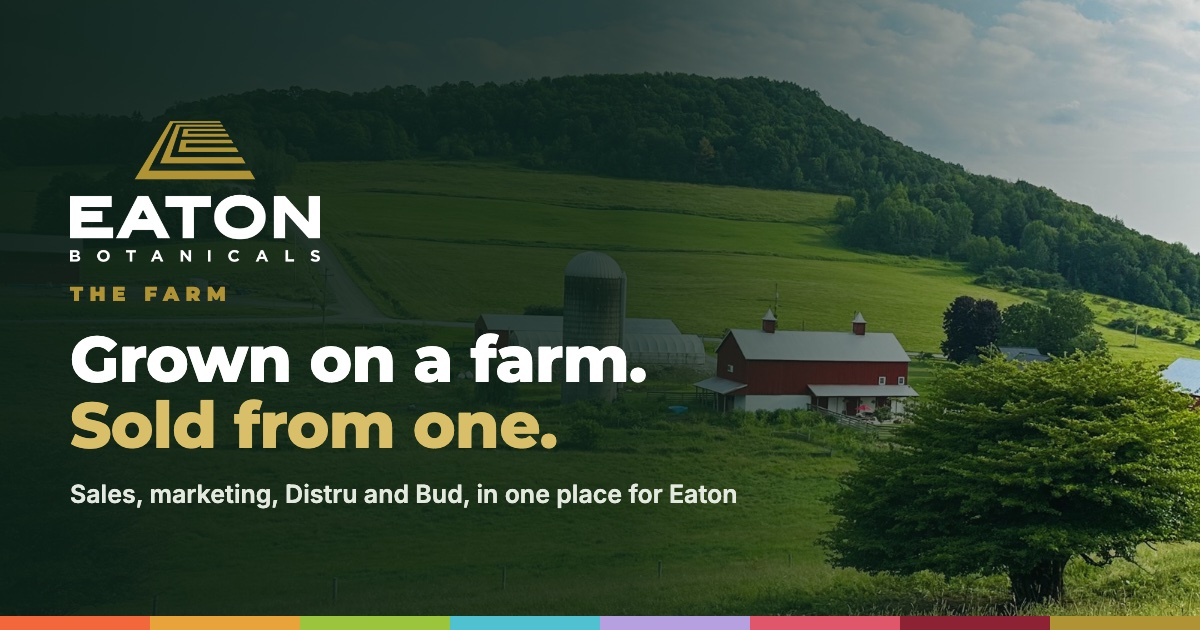
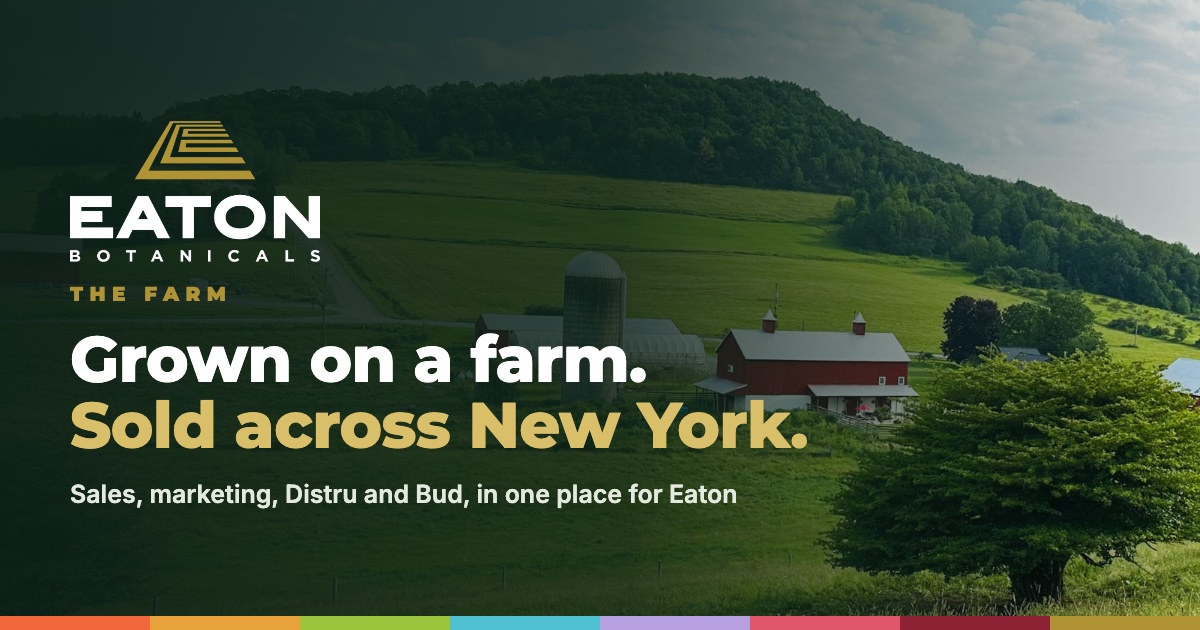
Eaton Botanicals: they don't sell from the farm; new headline "Sold across New York"

Changed region(s): [[0.185, 0.6333, 0.6783, 0.7238]]

diff --git a/eaton/app.js b/eaton/app.js
@@ -97,7 +97,7 @@
   const SCENES = {
     lines: () => `<div class="v-line" id="v-lines"></div>`,
     headline: () => `<div class="v-line">${V.headline}<small>${esc(V.headSub)}</small></div>`,
-    site: () => `<div class="v-stack"><div class="v-title">${esc(V.site.h)}<small>${esc(V.site.p)}</small></div><div class="v-win"><div class="bar"><i></i><i></i><i></i><span>eatonbotanicals.com</span></div><img src="img/shots/site.jpg?v=1794188895" alt=""></div></div>`,
+    site: () => `<div class="v-stack"><div class="v-title">${esc(V.site.h)}<small>${esc(V.site.p)}</small></div><div class="v-win"><div class="bar"><i></i><i></i><i></i><span>eatonbotanicals.com</span></div><img src="img/shots/site.jpg?v=1794189232" alt=""></div></div>`,
     locator: () => `<div class="v-stack"><div class="v-title">${esc(V.locator.h)}<small>${esc(V.locator.p)}</small></div><div class="v-mapwrap">${vmap()}<div class="v-legend"><span><i style="background:#7fc4a0"></i>Carries Eaton</span><span><i style="background:#d9bf6a"></i>Golden Ticket, last 90 days</span></div></div></div>`,
     orders: () => `<div class="v-stack"><div class="v-title">${esc(V.orders.h)}<small>${esc(V.orders.p)}</small></div><div class="v-feed">${AX.orders.lines.slice(0, 5).map((l, i) => `<div class="row" style="animation-delay:${.3 * i}s"><i class="v-tin" style="background:${P(l[0]).c}"></i><span><b>${esc(P(l[0]).n)}</b><small>${esc(AX.orders.stock[l[0]][1])}</small></span><span class="tag">${l[1]} tins</span><span class="score" style="color:#fff">${money(l[1] * l[2])}</span></div>`).join("")}<div class="row" style="animation-delay:1.7s;grid-template-columns:1fr auto;background:rgba(175,147,53,.18);border-color:rgba(175,147,53,.5)"><span><b>Confirmed. Sales order SO-20418 is in Distru.</b><small>Lantern House · Brooklyn · Net 30</small></span><span class="score" style="color:#d9bf6a">${money(AX.orders.lines.reduce((s, l) => s + l[1] * l[2], 0))}</span></div></div></div>`,
     reorder: () => `<div class="v-stack"><div class="v-title">${esc(V.reorder.h)}<small>${esc(V.reorder.p)}</small></div><div class="v-feed">${AX.accounts.filter(a => a.last / a.gap >= .85).sort((a, b) => b.last / b.gap - a.last / a.gap).slice(0, 4).map((a, i) => `<div class="row" style="animation-delay:${.35 * i}s">${svgI("repeat", 26)}<span><b>${esc(a.n)}</b><small>${esc(a.city)} · orders every ${a.gap} days · usually ${money(a.avg)}</small></span><span class="tag">${a.last} days</span><span class="score">${a.last > a.gap ? "Late" : "Due"}</span></div>`).join("")}</div></div>`,
@@ -105,19 +105,19 @@
     marketing: () => `<div class="v-stack"><div class="v-title">${esc(V.marketing.h)}<small>${esc(V.marketing.p)}</small></div><div class="v-feed">${AX.campaigns.map((c, i) => `<div class="row" style="animation-delay:${.35 * i}s">${svgI("megaphone", 26)}<span><b>${esc(c.n)}</b><small>${esc(c.to)} · ${esc(c.ch)}</small></span><span class="tag">${esc(c.st)}</span><span class="score" style="color:${c.ok ? "#7fe0b0" : "#ff8a8a"}">${c.ok ? "✓" : "Fix"}</span></div>`).join("")}</div></div>`,
     bud: () => `<div class="v-stack"><div class="v-title">${esc(V.bud.h)}<small>${esc(V.bud.p)}</small></div><div class="v-slack"><div class="v-slack-top">${svgI("slack", 18)}<b># sales</b><span>Slack · Teams works the same</span></div>
       <div class="v-msg" style="animation-delay:.2s"><span class="av" style="background:#e8a33a">T</span><div><b>Tom</b><p>@Bud who's out of Golden Ticket up north?</p></div></div>
-      <div class="v-msg" style="animation-delay:1.4s"><span class="av bud"><img src="img/mark-gold.png?v=1794188895" alt=""></span><div><b>Bud <em>APP</em></b><p>High Meadow in Saratoga is out, and their Golden Ticket night on Nov 20 isn't confirmed. I drafted a nudge to Jon and added 12 tins to their next order. Approve?</p><div class="v-acts"><span>Approve both</span><span>Edit</span></div></div></div>
+      <div class="v-msg" style="animation-delay:1.4s"><span class="av bud"><img src="img/mark-gold.png?v=1794189232" alt=""></span><div><b>Bud <em>APP</em></b><p>High Meadow in Saratoga is out, and their Golden Ticket night on Nov 20 isn't confirmed. I drafted a nudge to Jon and added 12 tins to their next order. Approve?</p><div class="v-acts"><span>Approve both</span><span>Edit</span></div></div></div>
       <div class="v-msg" style="animation-delay:3.2s"><span class="av" style="background:#e8a33a">T</span><div><b>Tom</b><p>Approve both 👍</p></div></div></div></div>`,
-    ring: () => `<div class="v-stack"><div class="v-title">${esc(V.ring.h)}<small>${esc(V.ring.p)}</small></div><div class="v-flow"><div class="v-list">${V.ring.l.map((t, i) => `<div style="animation-delay:${.12 * i}s">${svgI(t[0])}${esc(t[1])}</div>`).join("")}</div><div class="v-core"><img src="img/mark-gold.png?v=1794188895" alt=""></div><div class="v-list">${V.ring.r.map((t, i) => `<div style="animation-delay:${.5 + .12 * i}s">${svgI(t[0])}${esc(t[1])}</div>`).join("")}</div></div></div>`,
+    ring: () => `<div class="v-stack"><div class="v-title">${esc(V.ring.h)}<small>${esc(V.ring.p)}</small></div><div class="v-flow"><div class="v-list">${V.ring.l.map((t, i) => `<div style="animation-delay:${.12 * i}s">${svgI(t[0])}${esc(t[1])}</div>`).join("")}</div><div class="v-core"><img src="img/mark-gold.png?v=1794189232" alt=""></div><div class="v-list">${V.ring.r.map((t, i) => `<div style="animation-delay:${.5 + .12 * i}s">${svgI(t[0])}${esc(t[1])}</div>`).join("")}</div></div></div>`,
     build: () => `<div class="v-stack"><div class="v-title">${esc(V.build.h)}<small>${esc(V.build.p)}</small></div><div class="v-builds">${V.build.l.map((t, i) => `<div style="animation-delay:${.25 * i}s">${svgI(["users", "leaf", "cal", "flag", "chart", "bolt"][i], 24)}<span>${esc(t)}</span></div>`).join("")}</div></div>`,
-    farm: () => `<div class="v-stack"><div class="v-win" style="width:min(820px,90vw);background:#000"><img src="img/photos/lineup-group.jpg?v=1794188895" alt="The Eaton Botanicals gummy tins with the mushrooms in each one" style="aspect-ratio:3/2;object-position:center"></div><div class="v-line" style="font-size:clamp(34px,4.6vw,66px)">${V.farm}</div></div>`,
-    end: () => `<div class="v-stack v-end"><img src="img/logo-white.png?v=1794188895" alt="Eaton Botanicals"><div class="v-line" style="font-size:clamp(30px,3.6vw,50px)">${V.end}<small>Scroll down for more</small></div></div>`,
+    farm: () => `<div class="v-stack"><div class="v-win" style="width:min(820px,90vw);background:#000"><img src="img/photos/lineup-group.jpg?v=1794189232" alt="The Eaton Botanicals gummy tins with the mushrooms in each one" style="aspect-ratio:3/2;object-position:center"></div><div class="v-line" style="font-size:clamp(34px,4.6vw,66px)">${V.farm}</div></div>`,
+    end: () => `<div class="v-stack v-end"><img src="img/logo-white.png?v=1794189232" alt="Eaton Botanicals"><div class="v-line" style="font-size:clamp(30px,3.6vw,50px)">${V.end}<small>Scroll down for more</small></div></div>`,
   };
   const CH = V.scenes; // [key, seconds, caption]
   let VO = {}, voEl = null, voMuted = false, curDur = 0, showTok = 0, timer = null, idx = 0, t0 = 0, paused = false, elapsed = 0;
   function stopVideo() { clearTimeout(timer); timer = null; cancelAnimationFrame(raf); APP.music && APP.music.stop(); stopVoice(); }
   /* the voiceover: one clip per scene (img/vo/<scene>.mp3), lengths in img/vo/vo.json; the music dips under it */
   const VO_ON = !Q.has("cap") && !Q.has("novo");
-  fetch("img/vo/vo.json?v=1794188895").then(r => r.ok ? r.json() : {}).then(j => { VO = j || {}; }).catch(() => {});
+  fetch("img/vo/vo.json?v=1794189232").then(r => r.ok ? r.json() : {}).then(j => { VO = j || {}; }).catch(() => {});
   const voClips = {};
   function preloadVoice() { if (!VO_ON) return; Object.keys(VO).forEach(k => { if (!voClips[k]) { const a = new Audio(`img/vo/${k}.mp3`); a.preload = "auto"; voClips[k] = a; } }); }
   APP.voice = () => voEl; // for checks: the clip playing now
@@ -165,7 +165,7 @@
   function finish() {
     APP.music && APP.music.fade(3);
     const wh = $(".wh"); wh.classList.remove("on"); wh.classList.add("done");
-    $(".wh-front").innerHTML = `<img src="img/logo-white.png?v=1794188895" alt="Eaton Botanicals"><h1>${V.headline}</h1><p>${esc(V.headSub)}</p><button class="play" id="replay"><i><svg viewBox="0 0 24 24" width="22" height="22"><path d="${IC.play}"/></svg></i>Watch again</button>`;
+    $(".wh-front").innerHTML = `<img src="img/logo-white.png?v=1794189232" alt="Eaton Botanicals"><h1>${V.headline}</h1><p>${esc(V.headSub)}</p><button class="play" id="replay"><i><svg viewBox="0 0 24 24" width="22" height="22"><path d="${IC.play}"/></svg></i>Watch again</button>`;
   }
   function playVideo(from) {
     const wh = $(".wh"); if (!wh) return;
@@ -197,8 +197,8 @@
   function welcome() {
     const W = AX.welcome;
     return `
-    <section class="wh"><div class="wh-bg" style="background-image:url(img/photos/farm-field.jpg?v=1794188895)"></div><div class="wh-shade"></div>
-      <div class="wh-front"><img src="img/logo-white.png?v=1794188895" alt="Eaton Botanicals"><div class="wh-farm">The Farm</div><h1>${V.headline}</h1><p>${esc(V.headSub)}</p><button class="play"><i><svg viewBox="0 0 24 24" width="22" height="22"><path d="${IC.play}"/></svg></i>Play the video</button></div>
+    <section class="wh"><div class="wh-bg" style="background-image:url(img/photos/farm-field.jpg?v=1794189232)"></div><div class="wh-shade"></div>
+      <div class="wh-front"><img src="img/logo-white.png?v=1794189232" alt="Eaton Botanicals"><div class="wh-farm">The Farm</div><h1>${V.headline}</h1><p>${esc(V.headSub)}</p><button class="play"><i><svg viewBox="0 0 24 24" width="22" height="22"><path d="${IC.play}"/></svg></i>Play the video</button></div>
       <div class="wh-stage"></div><div class="wh-cap"></div><div class="wh-bar"></div>
     </section>
     <div class="stripe"></div>
@@ -217,7 +217,7 @@
     </div></section>
     <section class="sec"><div class="wrap split">
       <div class="rise"><div class="kick">The idea</div><p class="quote">${W.quote}</p><p class="lede">${esc(W.quoteP)}</p></div>
-      <div class="rise" style="border-radius:20px;overflow:hidden;border:1px solid var(--line)"><img src="img/photos/lineup-family-tree.jpg?v=1794188895" alt="The Eaton Botanicals lineup of gummies and mullein pre-rolls" style="aspect-ratio:4/3;object-fit:cover;width:100%"></div>
+      <div class="rise" style="border-radius:20px;overflow:hidden;border:1px solid var(--line)"><img src="img/photos/lineup-family-tree.jpg?v=1794189232" alt="The Eaton Botanicals lineup of gummies and mullein pre-rolls" style="aspect-ratio:4/3;object-fit:cover;width:100%"></div>
     </div></section>
     ${APP.next("site", "Your site")}`;
   }

diff --git a/eaton/views.js b/eaton/views.js
@@ -32,7 +32,7 @@
       <p class="src">Page source, headers and DNS of eatonbotanicals.com · ${src("your FAQ", "https://www.eatonbotanicals.com/faq")} · ${src("NY license data", "https://data.ny.gov/resource/jskf-tt3q.json?$q=eaton")} (OCM-DIST-25-000198) · ${src("Nabis NY launch", "https://mgmagazine.com/press-releases/nabis-launches-in-new-york")} · ${src("OCM on Metrc", "https://cannabis.ny.gov/ocm-expands-seed-to-sale-support")}. Distru is from you; it isn't visible publicly. research/tech-stack.md</p></div></section>
     <section class="sec"><div class="wrap split">
       <div class="rise"><div class="kick">The market</div><h2 class="h2">More stores than any team of six can know.</h2><ul class="lst"><li>New York sold <b>$1.69B</b> in 2025, up 94%, and <b>$1.41B</b> through Q3 2026</li><li><b>744</b> dispensaries are open, up from 556 last December, and <b>327</b> more are licensed but not open</li><li><b>582</b> licensed processors compete for the same shelves</li><li>The five best-selling edibles in the state are all <b>CBN or CBG "effect" gummies</b>. Functional is what's winning, and it's your whole lineup</li></ul></div>
-      <div class="rise card" style="padding:0;overflow:hidden"><img src="img/photos/lineup-group.jpg?v=1794188895" alt="Eaton's gummy tins with their mushrooms" style="aspect-ratio:4/3;object-fit:cover;width:100%"></div>
+      <div class="rise card" style="padding:0;overflow:hidden"><img src="img/photos/lineup-group.jpg?v=1794189232" alt="Eaton's gummy tins with their mushrooms" style="aspect-ratio:4/3;object-fit:cover;width:100%"></div>
     </div><div class="wrap"><p class="src">${src("OCM 2025 sales", "https://cannabis.ny.gov/system/files/documents/2026/02/february-2026-ccb-press-release.pdf")} · ${src("Governor, Oct 27 2026", "https://governor.ny.gov/news/governor-hochul-announces-new-yorks-legal-cannabis-market-surpasses-4-billion-retail-sales")} · ${src("OCM, Oct 2 2026", "https://cannabis.ny.gov/system/files/documents/2026/10/10.1-ccb-release.pdf")} · ${src("Hoodie, best-selling NY edibles", "https://www.hoodieanalytics.com/cannabis_markets/new-york/edibles/best-selling-edibles")}. research/market.md</p></div></section>
     <section class="sec"><div class="wrap"><div class="kick">The rules</div><h2 class="h2 rise">What a brand is allowed to do.</h2>
       <p class="lede rise">New York takes most of the usual levers away. That's why the levers that are left have to be run well.</p>
@@ -156,7 +156,7 @@
     + APP.next("bud", "Bud, your assistant");
 
   /* ---------- Bud ---------- */
-  const slack = (who, c, msg, bud) => `<div class="v-msg" style="animation:none"><span class="av ${bud ? "bud" : ""}" style="${bud ? "" : `background:${c}`}">${bud ? `<img src="img/mark-gold.png?v=1794188895" alt="">` : esc(who[0])}</span><div><b>${esc(who)}${bud ? " <em>APP</em>" : ""}</b><p>${msg}</p></div></div>`;
+  const slack = (who, c, msg, bud) => `<div class="v-msg" style="animation:none"><span class="av ${bud ? "bud" : ""}" style="${bud ? "" : `background:${c}`}">${bud ? `<img src="img/mark-gold.png?v=1794189232" alt="">` : esc(who[0])}</span><div><b>${esc(who)}${bud ? " <em>APP</em>" : ""}</b><p>${msg}</p></div></div>`;
   APP.views.bud = () => head("Bud, your assistant", "One assistant.<br>The whole team.", "Bud is Eaton's own AI assistant. It knows every store, order, tin, pop-up and campaign in The Farm, and it lives where the team already works: in The Farm, in Slack, in Microsoft Teams and on the phone. Ask it anything. It does the first draft of almost everything. A person presses send.")
     + `<section class="sec" style="padding-top:10px"><div class="wrap"><div class="grid g2 rise" style="align-items:start">
       <div><div class="v-slack" style="width:100%"><div class="v-slack-top">${svgI("slack", 18)}<b># sales</b><span>Slack</span></div>
@@ -182,7 +182,7 @@
     + APP.next("phone", "From your phone");
 
   /* ---------- from your phone ---------- */
-  const phone = (title, b, cap) => `<div class="ph rise"><div class="ph-in"><div class="ph-top"><span class="ph-av"><img src="img/mark-gold.png?v=1794188895" alt="" style="width:20px"></span><b>Bud</b><small>${esc(title)}</small></div>
+  const phone = (title, b, cap) => `<div class="ph rise"><div class="ph-in"><div class="ph-top"><span class="ph-av"><img src="img/mark-gold.png?v=1794189232" alt="" style="width:20px"></span><b>Bud</b><small>${esc(title)}</small></div>
     ${b.map(([s, h]) => `<div class="ph-b ${s}">${h}</div>`).join("")}</div>${cap ? `<p>${cap}</p>` : ""}</div>`;
   const card = `<div class="ph-rc" style="font-family:var(--body);font-size:12px;line-height:1.4"><b style="font-size:14px">MOTT STREET WELLNESS</b><br>Lee Park · Purchasing<br>lee@example.com<br>(212) 555-0187</div>`;
   const bars = (rows, max) => `<div class="gpt-ch">${rows.map(r => `<div><span>${r[0]}</span><i style="width:${Math.max(3, r[1] / max * 100)}%;${r[2] ? `background:${r[2]}` : ""}"></i><b>${r[1]}%</b></div>`).join("")}</div>`;

diff --git a/eaton/data.js b/eaton/data.js
@@ -11,21 +11,21 @@ window.AX = {
 
   /* the lineup (real products; wholesale prices in the portal are samples) */
   products: [
-    { k: "de", n: "Daily Elevation", f: "Peach", d: "5mg THC · 5mg CBG", m: "Cordyceps", c: "#f2683c", img: "img/photos/gummy-daily-elevation-cordyceps.jpg?v=1794188895", tag: "For a great day" },
-    { k: "nn", n: "Nightly Nightcap", f: "Dark Cherry", d: "5mg THC · 5mg CBN", m: "Reishi", c: "#8e2235", img: "img/photos/gummy-sleep-nightly-nightcap.jpg?v=1794188895", tag: "For a good night" },
+    { k: "de", n: "Daily Elevation", f: "Peach", d: "5mg THC · 5mg CBG", m: "Cordyceps", c: "#f2683c", img: "img/photos/gummy-daily-elevation-cordyceps.jpg?v=1794189232", tag: "For a great day" },
+    { k: "nn", n: "Nightly Nightcap", f: "Dark Cherry", d: "5mg THC · 5mg CBN", m: "Reishi", c: "#8e2235", img: "img/photos/gummy-sleep-nightly-nightcap.jpg?v=1794189232", tag: "For a good night" },
     { k: "sn", n: "Serenity Now", f: "Lemon Lavender", d: "2.5mg THC · 10mg CBD", m: "Lion's Mane", c: "#9d86d6", tag: "Calm your mind" },
-    { k: "gp", n: "Gal Pal", f: "Watermelon", d: "5mg THC · 5mg CBD", m: "Lion's Mane", c: "#e0566b", img: "img/photos/gummy-gal-pal.jpg?v=1794188895", tag: "For anytime of the month" },
-    { k: "fu", n: "Fixer Upper", f: "Mango Ginger", d: "5mg THC · 5mg CBD", m: "Chaga", c: "#e8a33a", img: "img/photos/gummy-fixer-upper.jpg?v=1794188895", tag: "Feel the heal" },
-    { k: "ad", n: "Apple-A-Day", f: "Apple", d: "2.5mg THC · 10mg CBD", m: "Turkey Tail", c: "#8db534", img: "img/photos/gummy-apple-a-day.jpg?v=1794188895", tag: "Keep the doc away" },
+    { k: "gp", n: "Gal Pal", f: "Watermelon", d: "5mg THC · 5mg CBD", m: "Lion's Mane", c: "#e0566b", img: "img/photos/gummy-gal-pal.jpg?v=1794189232", tag: "For anytime of the month" },
+    { k: "fu", n: "Fixer Upper", f: "Mango Ginger", d: "5mg THC · 5mg CBD", m: "Chaga", c: "#e8a33a", img: "img/photos/gummy-fixer-upper.jpg?v=1794189232", tag: "Feel the heal" },
+    { k: "ad", n: "Apple-A-Day", f: "Apple", d: "2.5mg THC · 10mg CBD", m: "Turkey Tail", c: "#8db534", img: "img/photos/gummy-apple-a-day.jpg?v=1794189232", tag: "Keep the doc away" },
     { k: "cd", n: "Cool Down", f: "Blueberry Coconut", d: "2.5mg THC · 5mg CBD · 5mg CBC", m: "Cordyceps", c: "#3fb3c3", tag: "Fuel your cool" },
-    { k: "gt", n: "Golden Ticket", f: "Cinnamon Cacao", d: "5mg live rosin", m: "Poria", c: "#af9335", img: "img/photos/golden-ticket-lifestyle.jpg?v=1794188895", tag: "Limited edition" },
-    { k: "cl", n: "Chairlifts", f: "3 × 0.5g", d: "Sungrown + mullein", m: "Mullein", c: "#5b7d6a", img: "img/photos/preroll-chairlifts.jpg?v=1794188895", tag: "Mini pre-rolls" },
-    { k: "lp", n: "Little Pandas", f: "5 × 0.5g", d: "Sungrown + mullein", m: "Mullein", c: "#2f4f40", img: "img/photos/preroll-little-pandas.jpg?v=1794188895", tag: "Mini pre-rolls" },
+    { k: "gt", n: "Golden Ticket", f: "Cinnamon Cacao", d: "5mg live rosin", m: "Poria", c: "#af9335", img: "img/photos/golden-ticket-lifestyle.jpg?v=1794189232", tag: "Limited edition" },
+    { k: "cl", n: "Chairlifts", f: "3 × 0.5g", d: "Sungrown + mullein", m: "Mullein", c: "#5b7d6a", img: "img/photos/preroll-chairlifts.jpg?v=1794189232", tag: "Mini pre-rolls" },
+    { k: "lp", n: "Little Pandas", f: "5 × 0.5g", d: "Sungrown + mullein", m: "Mullein", c: "#2f4f40", img: "img/photos/preroll-little-pandas.jpg?v=1794189232", tag: "Mini pre-rolls" },
   ],
 
   /* ---------- the opening video ---------- */
   video: {
-    headline: "Grown on a farm.<br><em>Sold from one.</em>",
+    headline: "Grown on a farm.<br><em>Sold across New York.</em>",
     headSub: "The Farm: one place where every dispensary, order, rep, pop-up, email and store pin lives, wired into Distru and Nabis, with Bud, an assistant the whole team can ask.",
     since: "Eaton, New York · Since 2016",
     lines: ["New York's first legal hemp in eighty years.", "One of the first adult-use licenses.", "Eight gummies. Two pre-rolls.<br>204 dispensaries.", "So why does selling it still run<br>on HubSpot, a map upload and memory?"],
@@ -42,7 +42,7 @@ window.AX = {
     end: "Less HubSpot. More stores.",
     narr: {
       lines: "New York's first legal hemp in eighty years. One of the first adult-use licenses. Eight gummies, two pre-rolls, and two hundred four dispensaries. So why does selling it still run on HubSpot, a map upload, and memory?",
-      headline: "Grown on a farm. Sold from one.",
+      headline: "Grown on a farm. Sold across New York.",
       site: "It starts with your own site, in your own look, moved off HubSpot and wired to your orders.",
       locator: "The store locator updates itself. Every invoice moves a pin, and Golden Ticket stores glow gold the day it ships.",
       orders: "Reps build the order in The Farm, with live stock by batch, and it lands in Distru when they confirm. Direct and Nabis, one book.",

diff --git a/eaton/site.js b/eaton/site.js
@@ -20,9 +20,9 @@
   function page() {
     const gummies = AX.products.filter(p => !/pre-rolls/i.test(p.tag));
     return `<div class="ns ns-eb">
-      ${ns.gate ? `<div class="ns-gate"><div><img src="img/logo-color.png?v=1794188895" alt="Eaton Botanicals"><b>You must be 21 or older to enter this site.</b><p>Are you over 21?</p><div style="display:flex;gap:10px;justify-content:center"><button class="ns-btn" data-gate>Yes, I'm 21+</button><button class="ns-btn w" data-gate>No</button></div></div></div>` : ""}
-      <div class="ns-top"><img src="img/logo-color.png?v=1794188895" alt="Eaton Botanicals"><nav><a href="#site" data-ns="prod">Edibles</a><a href="#site" data-ns="prod">Pre-rolls</a><a href="#site" data-ns="find">Where to buy</a><a href="#site" data-ns="ev">Events</a><a href="#site" data-ns="ws">Wholesale</a></nav><a class="ns-call" href="#site" data-ns="find">Find a store</a></div>
-      <div class="ns-hero" style="background-image:url(img/photos/farm-field.jpg?v=1794188895)"><div>
+      ${ns.gate ? `<div class="ns-gate"><div><img src="img/logo-color.png?v=1794189232" alt="Eaton Botanicals"><b>You must be 21 or older to enter this site.</b><p>Are you over 21?</p><div style="display:flex;gap:10px;justify-content:center"><button class="ns-btn" data-gate>Yes, I'm 21+</button><button class="ns-btn w" data-gate>No</button></div></div></div>` : ""}
+      <div class="ns-top"><img src="img/logo-color.png?v=1794189232" alt="Eaton Botanicals"><nav><a href="#site" data-ns="prod">Edibles</a><a href="#site" data-ns="prod">Pre-rolls</a><a href="#site" data-ns="find">Where to buy</a><a href="#site" data-ns="ev">Events</a><a href="#site" data-ns="ws">Wholesale</a></nav><a class="ns-call" href="#site" data-ns="find">Find a store</a></div>
+      <div class="ns-hero" style="background-image:url(img/photos/farm-field.jpg?v=1794189232)"><div>
         <div style="font-weight:800;letter-spacing:.2em;font-size:13px;color:#d9bf6a;margin-bottom:12px">SUNGROWN IN EATON, NEW YORK</div>
         <h1 class="disp" style="text-transform:uppercase">Wellness you can feel</h1>
         <p>The one with the mushrooms. Low-dose gummies and mullein mini pre-rolls from a historic New York farm.</p>
@@ -57,7 +57,7 @@
         <div id="ns-landed"></div>
       </div>
 
-      <div class="ns-foot"><div><img src="img/logo-white.png?v=1794188895" alt="" style="height:70px;margin-bottom:12px"><div>Eaton Botanicals · Eaton, New York<br>License ${esc(C.lic)}</div></div>
+      <div class="ns-foot"><div><img src="img/logo-white.png?v=1794189232" alt="" style="height:70px;margin-bottom:12px"><div>Eaton Botanicals · Eaton, New York<br>License ${esc(C.lic)}</div></div>
         <div><b>Shop</b><a>Edibles</a><a>Pre-rolls</a><a>Where to buy</a></div>
         <div><b>Stay updated</b><a>Newsletter, 21+</a><a>Instagram</a><a>Events</a></div>
         <div><b>For 21+ only</b>Keep out of reach of children. NYS HOPEline: call 1-877-8-HOPENY or text HOPENY (467369).</div></div>

diff --git a/eaton/index.html b/eaton/index.html
@@ -1,4 +1,4 @@
-<!doctype html><html lang="en"><head><meta charset="utf-8"><meta name="viewport" content="width=device-width,initial-scale=1,viewport-fit=cover"><meta name="robots" content="noindex, nofollow"><meta property="og:type" content="website"><meta property="og:url" content="https://jgoco.me/eaton/"><meta property="og:title" content="The Farm · Eaton Botanicals"><meta property="og:description" content="Grown on a farm. Sold from one."><meta property="og:image" content="https://jgoco.me/eaton/img/og-card.jpg?v=1"><meta property="og:image:width" content="1200"><meta property="og:image:height" content="630"><meta name="twitter:card" content="summary_large_image"><meta name="twitter:image" content="https://jgoco.me/eaton/img/og-card.jpg?v=1"></head><body><title>The Farm · Eaton Botanicals</title>
+<!doctype html><html lang="en"><head><meta charset="utf-8"><meta name="viewport" content="width=device-width,initial-scale=1,viewport-fit=cover"><meta name="robots" content="noindex, nofollow"><meta property="og:type" content="website"><meta property="og:url" content="https://jgoco.me/eaton/"><meta property="og:title" content="The Farm · Eaton Botanicals"><meta property="og:description" content="Grown on a farm. Sold across New York."><meta property="og:image" content="https://jgoco.me/eaton/img/og-card.jpg?v=2"><meta property="og:image:width" content="1200"><meta property="og:image:height" content="630"><meta name="twitter:card" content="summary_large_image"><meta name="twitter:image" content="https://jgoco.me/eaton/img/og-card.jpg?v=2"></head><body><title>The Farm · Eaton Botanicals</title>
 <link rel="preconnect" href="https://fonts.googleapis.com"><link rel="preconnect" href="https://fonts.gstatic.com" crossorigin>
 <link href="https://fonts.googleapis.com/css2?family=Montserrat:ital,wght@0,600;0,700;0,800;0,900;1,700;1,800&family=Inter:wght@400;500;600;700;800&display=swap" rel="stylesheet">
 <link rel="icon" href="img/mark-gold.png">
@@ -453,11 +453,11 @@ html.cap .wh-scene *,html.cap .wh-stage,html.cap .wh-front{animation:none!import
 <nav id="mnav" hidden></nav>
 <main id="view"></main>
 
-<script src="data.js?v=1794188895"></script>
-<script src="app.js?v=1794188895"></script>
-<script src="music.js?v=1794188895"></script>
-<script src="site.js?v=1794188895"></script>
-<script src="hub.js?v=1794188895"></script>
-<script src="views.js?v=1794188895"></script>
+<script src="data.js?v=1794189232"></script>
+<script src="app.js?v=1794189232"></script>
+<script src="music.js?v=1794189232"></script>
+<script src="site.js?v=1794189232"></script>
+<script src="hub.js?v=1794189232"></script>
+<script src="views.js?v=1794189232"></script>
 <script>APP.render()</script>
 </body></html>

diff --git a/eaton/interview.html b/eaton/interview.html
@@ -1,6 +1,6 @@
 <!doctype html>
 <html lang="en">
-<head><meta name="robots" content="noindex, nofollow"><meta property="og:type" content="website"><meta property="og:url" content="https://jgoco.me/eaton/"><meta property="og:title" content="Talk with Mason · The Farm"><meta property="og:description" content="Grown on a farm. Sold from one."><meta property="og:image" content="https://jgoco.me/eaton/img/og-card.jpg?v=1"><meta property="og:image:width" content="1200"><meta property="og:image:height" content="630"><meta name="twitter:card" content="summary_large_image"><meta name="twitter:image" content="https://jgoco.me/eaton/img/og-card.jpg?v=1">
+<head><meta name="robots" content="noindex, nofollow"><meta property="og:type" content="website"><meta property="og:url" content="https://jgoco.me/eaton/"><meta property="og:title" content="Talk with Mason · The Farm"><meta property="og:description" content="Grown on a farm. Sold across New York."><meta property="og:image" content="https://jgoco.me/eaton/img/og-card.jpg?v=2"><meta property="og:image:width" content="1200"><meta property="og:image:height" content="630"><meta name="twitter:card" content="summary_large_image"><meta name="twitter:image" content="https://jgoco.me/eaton/img/og-card.jpg?v=2">
 <meta charset="utf-8">
 <meta name="viewport" content="width=device-width,initial-scale=1,viewport-fit=cover">
 <meta name="robots" content="noindex, nofollow">

diff --git a/eaton/survey.html b/eaton/survey.html
@@ -1,6 +1,6 @@
 <!doctype html>
 <html lang="en">
-<head><meta name="robots" content="noindex, nofollow"><meta property="og:type" content="website"><meta property="og:url" content="https://jgoco.me/eaton/"><meta property="og:title" content="Team survey · The Farm"><meta property="og:description" content="Grown on a farm. Sold from one."><meta property="og:image" content="https://jgoco.me/eaton/img/og-card.jpg?v=1"><meta property="og:image:width" content="1200"><meta property="og:image:height" content="630"><meta name="twitter:card" content="summary_large_image"><meta name="twitter:image" content="https://jgoco.me/eaton/img/og-card.jpg?v=1">
+<head><meta name="robots" content="noindex, nofollow"><meta property="og:type" content="website"><meta property="og:url" content="https://jgoco.me/eaton/"><meta property="og:title" content="Team survey · The Farm"><meta property="og:description" content="Grown on a farm. Sold across New York."><meta property="og:image" content="https://jgoco.me/eaton/img/og-card.jpg?v=2"><meta property="og:image:width" content="1200"><meta property="og:image:height" content="630"><meta name="twitter:card" content="summary_large_image"><meta name="twitter:image" content="https://jgoco.me/eaton/img/og-card.jpg?v=2">
 <meta charset="utf-8">
 <meta name="viewport" content="width=device-width,initial-scale=1,viewport-fit=cover">
 <title>The Farm Survey</title>

diff --git a/eaton/hub.js b/eaton/hub.js
@@ -128,7 +128,7 @@
   APP.hubMini = k => `<div class="hb-main" style="padding:18px;max-height:none;grid-column:1/-1">${M[k] ? M[k]() : ""}</div>`;
   APP.hub = (mod, opts) => {
     mod = M[mod] ? mod : "today";
-    return `<div class="hb" data-hub>${opts && opts.noside ? "" : `<div class="hb-side"><div class="hb-me"><img src="img/mark-gold.png?v=1794188895" alt=""><div><b>The Farm</b><small>Eaton Botanicals</small></div></div>${MODS.map(m => `<button data-mod="${m[0]}" class="${m[0] === mod ? "on" : ""}">${svgI(m[2], 17)}<span>${m[1]}</span>${m[3] ? `<em>${m[3]}</em>` : ""}</button>`).join("")}</div>`}<div class="hb-main">${M[mod]()}</div></div>`;
+    return `<div class="hb" data-hub>${opts && opts.noside ? "" : `<div class="hb-side"><div class="hb-me"><img src="img/mark-gold.png?v=1794189232" alt=""><div><b>The Farm</b><small>Eaton Botanicals</small></div></div>${MODS.map(m => `<button data-mod="${m[0]}" class="${m[0] === mod ? "on" : ""}">${svgI(m[2], 17)}<span>${m[1]}</span>${m[3] ? `<em>${m[3]}</em>` : ""}</button>`).join("")}</div>`}<div class="hb-main">${M[mod]()}</div></div>`;
   };
   function swap(hb, mod) {
     hb.querySelector(".hb-main").innerHTML = M[mod]();
